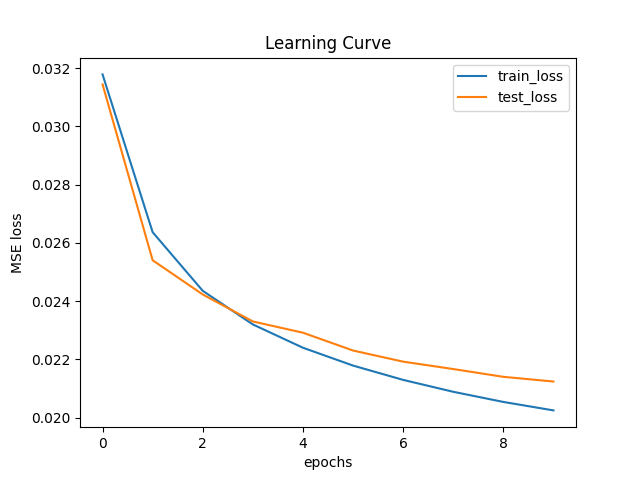
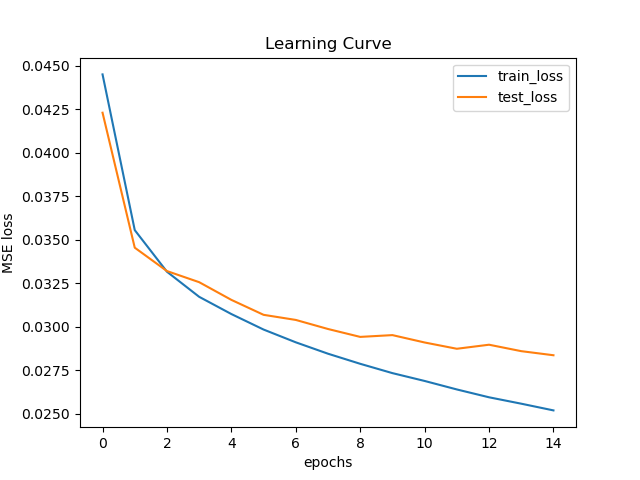
5e4 dataset baseline

diff --git a/dvc_plots/index.html b/dvc_plots/index.html
@@ -22,64 +22,176 @@
         "filename": "reports/learning_curve.csv",
         "rev": "workspace",
         "step": 0,
-        "test_loss": "0.03146017836779356",
-        "train_loss": "0.03260730977419175"
+        "test_loss": "0.04229932664334774",
+        "train_loss": "0.04450155330959119"
     },
     {
         "filename": "reports/learning_curve.csv",
         "rev": "workspace",
         "step": 1,
-        "test_loss": "0.02602720600515604",
-        "train_loss": "0.027115427343704198"
+        "test_loss": "0.0345426037311554",
+        "train_loss": "0.035552050836776435"
     },
     {
         "filename": "reports/learning_curve.csv",
         "rev": "workspace",
         "step": 2,
-        "test_loss": "0.024851604521274568",
-        "train_loss": "0.02509118281147982"
+        "test_loss": "0.0331982404589653",
+        "train_loss": "0.03316048024281075"
     },
     {
         "filename": "reports/learning_curve.csv",
         "rev": "workspace",
         "step": 3,
-        "test_loss": "0.023615898779034614",
-        "train_loss": "0.023946781010219926"
+        "test_loss": "0.03255953426659107",
+        "train_loss": "0.031718629817429345"
     },
     {
         "filename": "reports/learning_curve.csv",
         "rev": "workspace",
         "step": 4,
-        "test_loss": "0.02319661682099104",
-        "train_loss": "0.023153524090781023"
+        "test_loss": "0.031542416527867316",
+        "train_loss": "0.030728016019651763"
     },
     {
         "filename": "reports/learning_curve.csv",
         "rev": "workspace",
         "step": 5,
-        "test_loss": "0.02296441090106964",
-        "train_loss": "0.022540000058357653"
+        "test_loss": "0.030683411940932274",
+        "train_loss": "0.02983670244954134"
     },
     {
         "filename": "reports/learning_curve.csv",
         "rev": "workspace",
         "step": 6,
-        "test_loss": "0.022540058101713657",
-        "train_loss": "0.022057287916815594"
+        "test_loss": "0.030389894008636474",
+        "train_loss": "0.029103216796329146"
     },
     {
         "filename": "reports/learning_curve.csv",
-        "rev": "gausses_exp",
+        "rev": "workspace",
+        "step": 7,
+        "test_loss": "0.02986898957192898",
+        "train_loss": "0.028448483460827876"
+    },
+    {
+        "filename": "reports/learning_curve.csv",
+        "rev": "workspace",
+        "step": 8,
+        "test_loss": "0.029414692610502242",
+        "train_loss": "0.027868687402260933"
+    },
+    {
+        "filename": "reports/learning_curve.csv",
+        "rev": "workspace",
+        "step": 9,
+        "test_loss": "0.02951756529510021",
+        "train_loss": "0.02733293831662128"
+    },
+    {
+        "filename": "reports/learning_curve.csv",
+        "rev": "workspace",
+        "step": 10,
+        "test_loss": "0.029093762785196306",
+        "train_loss": "0.02688246182391518"
+    },
+    {
+        "filename": "reports/learning_curve.csv",
+        "rev": "workspace",
+        "step": 11,
+        "test_loss": "0.028732652470469473",
+        "train_loss": "0.026394654902972672"
+    },
+    {
+        "filename": "reports/learning_curve.csv",
+        "rev": "workspace",
+        "step": 12,
+        "test_loss": "0.028965575128793716",
+        "train_loss": "0.025943630069494246"
+    },
+    {
+        "filename": "reports/learning_curve.csv",
+        "rev": "workspace",
+        "step": 13,
+        "test_loss": "0.02859543652832508",
+        "train_loss": "0.025576015754749902"
+    },
+    {
+        "filename": "reports/learning_curve.csv",
+        "rev": "workspace",
+        "step": 14,
+        "test_loss": "0.028360314026474952",
+        "train_loss": "0.0251904816556918"
+    },
+    {
+        "filename": "reports/learning_curve.csv",
+        "rev": "2f8ef6e",
         "step": 0,
-        "test_loss": "0.1342623773217201",
-        "train_loss": "0.11700754964037946"
+        "test_loss": "0.03144416958093643",
+        "train_loss": "0.031786478803426894"
     },
     {
         "filename": "reports/learning_curve.csv",
-        "rev": "gausses_exp",
+        "rev": "2f8ef6e",
         "step": 1,
-        "test_loss": "0.09420492090284824",
-        "train_loss": "0.09529113891093355"
+        "test_loss": "0.025402851402759552",
+        "train_loss": "0.026366588262481255"
+    },
+    {
+        "filename": "reports/learning_curve.csv",
+        "rev": "2f8ef6e",
+        "step": 2,
+        "test_loss": "0.02422867715358734",
+        "train_loss": "0.024354025976055557"
+    },
+    {
+        "filename": "reports/learning_curve.csv",
+        "rev": "2f8ef6e",
+        "step": 3,
+        "test_loss": "0.023301266133785248",
+        "train_loss": "0.02319905128460508"
+    },
+    {
+        "filename": "reports/learning_curve.csv",
+        "rev": "2f8ef6e",
+        "step": 4,
+        "test_loss": "0.022915096953511238",
+        "train_loss": "0.02239918737451325"
+    },
+    {
+        "filename": "reports/learning_curve.csv",
+        "rev": "2f8ef6e",
+        "step": 5,
+        "test_loss": "0.02230316773056984",
+        "train_loss": "0.021786012573016655"
+    },
+    {
+        "filename": "reports/learning_curve.csv",
+        "rev": "2f8ef6e",
+        "step": 6,
+        "test_loss": "0.02192084863781929",
+        "train_loss": "0.021294788521704255"
+    },
+    {
+        "filename": "reports/learning_curve.csv",
+        "rev": "2f8ef6e",
+        "step": 7,
+        "test_loss": "0.02166716568171978",
+        "train_loss": "0.02088629959100807"
+    },
+    {
+        "filename": "reports/learning_curve.csv",
+        "rev": "2f8ef6e",
+        "step": 8,
+        "test_loss": "0.021399956196546555",
+        "train_loss": "0.020537627589319263"
+    },
+    {
+        "filename": "reports/learning_curve.csv",
+        "rev": "2f8ef6e",
+        "step": 9,
+        "test_loss": "0.02123897895216942",
+        "train_loss": "0.020247062421828003"
     }
 ]
     },

diff --git a/reports/report.md b/reports/report.md
@@ -5,46 +5,46 @@
 ============================================================================================================================================
 Layer (type:depth-idx)                   Input Shape               Output Shape              Param #                   Kernel Shape
 ============================================================================================================================================
-TorchSensorNN5S_norm_deep                [50, 4, 64]               [50, 64, 64]              --                        --
-├─Sequential: 1-1                        [50, 1, 64, 4]            [50, 8, 64, 4]            --                        --
-│    └─Conv2d: 2-1                       [50, 1, 64, 4]            [50, 8, 64, 4]            32                        [3, 1]
-│    └─ReLU: 2-2                         [50, 8, 64, 4]            [50, 8, 64, 4]            --                        --
-├─Sequential: 1-2                        [50, 8, 64, 4]            [50, 64, 16, 4]           --                        --
-│    └─MaxPool2d: 2-3                    [50, 8, 64, 4]            [50, 8, 32, 4]            --                        [2, 1]
-│    └─InstanceNorm2d: 2-4               [50, 8, 32, 4]            [50, 8, 32, 4]            16                        --
-│    └─Conv2d: 2-5                       [50, 8, 32, 4]            [50, 64, 32, 4]           1,600                     [3, 1]
-│    └─ReLU: 2-6                         [50, 64, 32, 4]           [50, 64, 32, 4]           --                        --
-│    └─MaxPool2d: 2-7                    [50, 64, 32, 4]           [50, 64, 16, 4]           --                        [2, 1]
-│    └─InstanceNorm2d: 2-8               [50, 64, 16, 4]           [50, 64, 16, 4]           128                       --
-├─MaxPool2d: 1-3                         [50, 8, 64, 4]            [50, 8, 16, 4]            --                        [4, 1]
-├─Sequential: 1-4                        [50, 72, 16, 4]           [50, 128, 4, 4]           --                        --
-│    └─Conv2d: 2-9                       [50, 72, 16, 4]           [50, 128, 16, 4]          27,776                    [3, 1]
-│    └─ReLU: 2-10                        [50, 128, 16, 4]          [50, 128, 16, 4]          --                        --
-│    └─MaxPool2d: 2-11                   [50, 128, 16, 4]          [50, 128, 8, 4]           --                        [2, 1]
-│    └─InstanceNorm2d: 2-12              [50, 128, 8, 4]           [50, 128, 8, 4]           256                       --
-│    └─Conv2d: 2-13                      [50, 128, 8, 4]           [50, 128, 8, 4]           49,280                    [3, 1]
-│    └─MaxPool2d: 2-14                   [50, 128, 8, 4]           [50, 128, 4, 4]           --                        [2, 1]
-├─MaxPool2d: 1-5                         [50, 72, 16, 4]           [50, 72, 4, 4]            --                        [4, 1]
-├─Sequential: 1-6                        [50, 200, 4, 4]           [50, 64, 4, 1]            --                        --
-│    └─Conv2d: 2-15                      [50, 200, 4, 4]           [50, 64, 4, 1]            51,264                    [1, 4]
-│    └─ReLU: 2-16                        [50, 64, 4, 1]            [50, 64, 4, 1]            --                        --
-├─Sequential: 1-7                        [50, 256]                 [50, 4096]                --                        --
-│    └─Linear: 2-17                      [50, 256]                 [50, 195]                 50,115                    --
-│    └─ReLU: 2-18                        [50, 195]                 [50, 195]                 --                        --
-│    └─Linear: 2-19                      [50, 195]                 [50, 900]                 176,400                   --
-│    └─ReLU: 2-20                        [50, 900]                 [50, 900]                 --                        --
-│    └─Linear: 2-21                      [50, 900]                 [50, 4096]                3,690,496                 --
-│    └─LeakyReLU: 2-22                   [50, 4096]                [50, 4096]                --                        --
+TorchSensorNN5S_norm_deep                [100, 4, 64]              [100, 64, 64]             --                        --
+├─Sequential: 1-1                        [100, 1, 64, 4]           [100, 8, 64, 4]           --                        --
+│    └─Conv2d: 2-1                       [100, 1, 64, 4]           [100, 8, 64, 4]           32                        [3, 1]
+│    └─ReLU: 2-2                         [100, 8, 64, 4]           [100, 8, 64, 4]           --                        --
+├─Sequential: 1-2                        [100, 8, 64, 4]           [100, 64, 16, 4]          --                        --
+│    └─MaxPool2d: 2-3                    [100, 8, 64, 4]           [100, 8, 32, 4]           --                        [2, 1]
+│    └─InstanceNorm2d: 2-4               [100, 8, 32, 4]           [100, 8, 32, 4]           16                        --
+│    └─Conv2d: 2-5                       [100, 8, 32, 4]           [100, 64, 32, 4]          1,600                     [3, 1]
+│    └─ReLU: 2-6                         [100, 64, 32, 4]          [100, 64, 32, 4]          --                        --
+│    └─MaxPool2d: 2-7                    [100, 64, 32, 4]          [100, 64, 16, 4]          --                        [2, 1]
+│    └─InstanceNorm2d: 2-8               [100, 64, 16, 4]          [100, 64, 16, 4]          128                       --
+├─MaxPool2d: 1-3                         [100, 8, 64, 4]           [100, 8, 16, 4]           --                        [4, 1]
+├─Sequential: 1-4                        [100, 64, 16, 4]          [100, 128, 4, 4]          --                        --
+│    └─Conv2d: 2-9                       [100, 64, 16, 4]          [100, 128, 16, 4]         24,704                    [3, 1]
+│    └─ReLU: 2-10                        [100, 128, 16, 4]         [100, 128, 16, 4]         --                        --
+│    └─MaxPool2d: 2-11                   [100, 128, 16, 4]         [100, 128, 8, 4]          --                        [2, 1]
+│    └─InstanceNorm2d: 2-12              [100, 128, 8, 4]          [100, 128, 8, 4]          256                       --
+│    └─Conv2d: 2-13                      [100, 128, 8, 4]          [100, 128, 8, 4]          49,280                    [3, 1]
+│    └─MaxPool2d: 2-14                   [100, 128, 8, 4]          [100, 128, 4, 4]          --                        [2, 1]
+├─MaxPool2d: 1-5                         [100, 64, 16, 4]          [100, 64, 4, 4]           --                        [4, 1]
+├─Sequential: 1-6                        [100, 128, 4, 4]          [100, 64, 4, 1]           --                        --
+│    └─Conv2d: 2-15                      [100, 128, 4, 4]          [100, 64, 4, 1]           32,832                    [1, 4]
+│    └─ReLU: 2-16                        [100, 64, 4, 1]           [100, 64, 4, 1]           --                        --
+├─Sequential: 1-7                        [100, 256]                [100, 4096]               --                        --
+│    └─Linear: 2-17                      [100, 256]                [100, 195]                50,115                    --
+│    └─ReLU: 2-18                        [100, 195]                [100, 195]                --                        --
+│    └─Linear: 2-19                      [100, 195]                [100, 900]                176,400                   --
+│    └─ReLU: 2-20                        [100, 900]                [100, 900]                --                        --
+│    └─Linear: 2-21                      [100, 900]                [100, 4096]               3,690,496                 --
+│    └─LeakyReLU: 2-22                   [100, 4096]               [100, 4096]               --                        --
 ============================================================================================================================================
 Total params: 4,025,859
 Trainable params: 4,025,859
 Non-trainable params: 0
-Total mult-adds (M): 384.50
+Total mult-adds (M): 741.97
 ============================================================================================================================================
-Input size (MB): 0.05
-Forward/backward pass size (MB): 14.88
-Params size (MB): 16.19
-Estimated Total Size (MB): 31.12
+Input size (MB): 0.10
+Forward/backward pass size (MB): 29.75
+Params size (MB): 16.10
+Estimated Total Size (MB): 45.96
 ============================================================================================================================================
 
 ```
